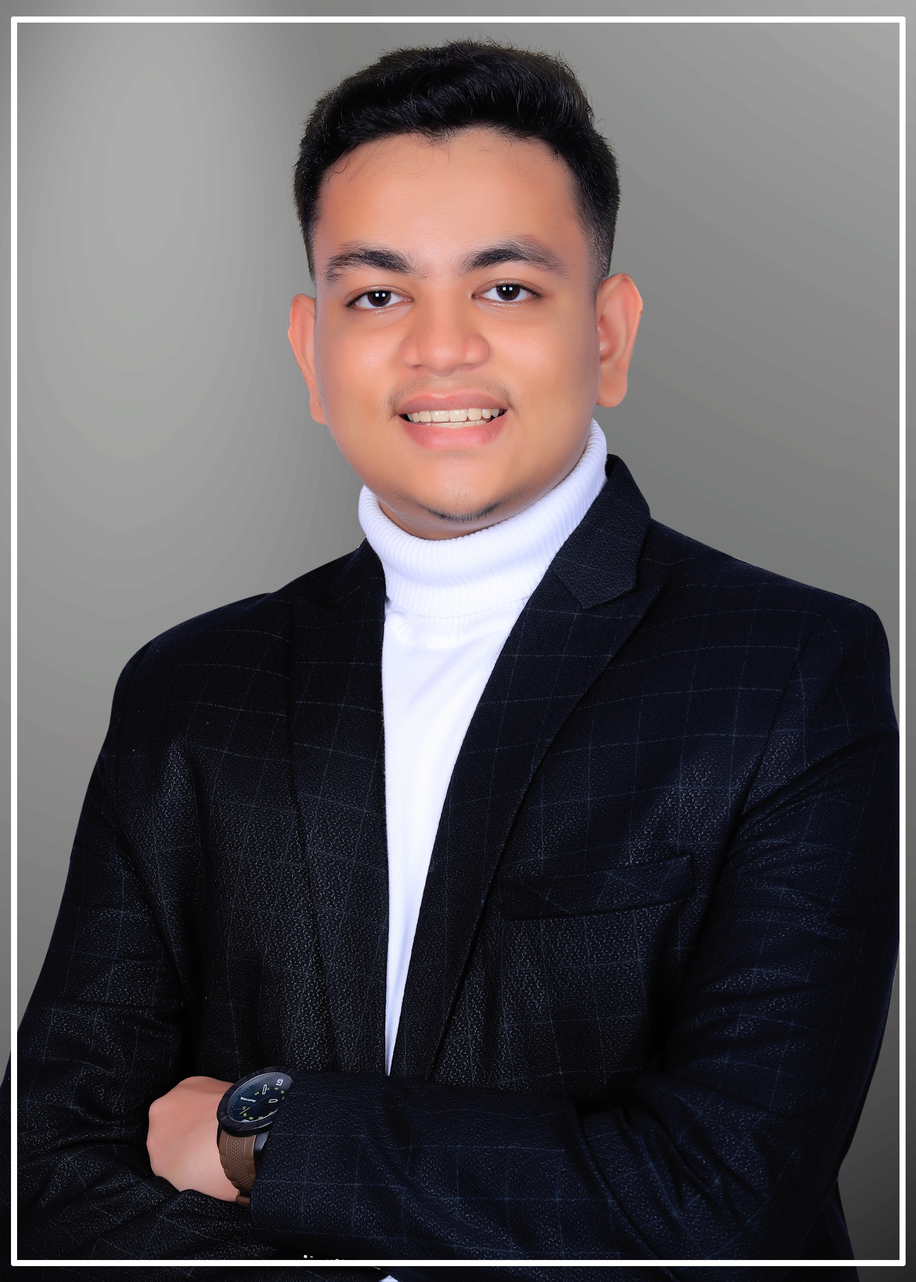
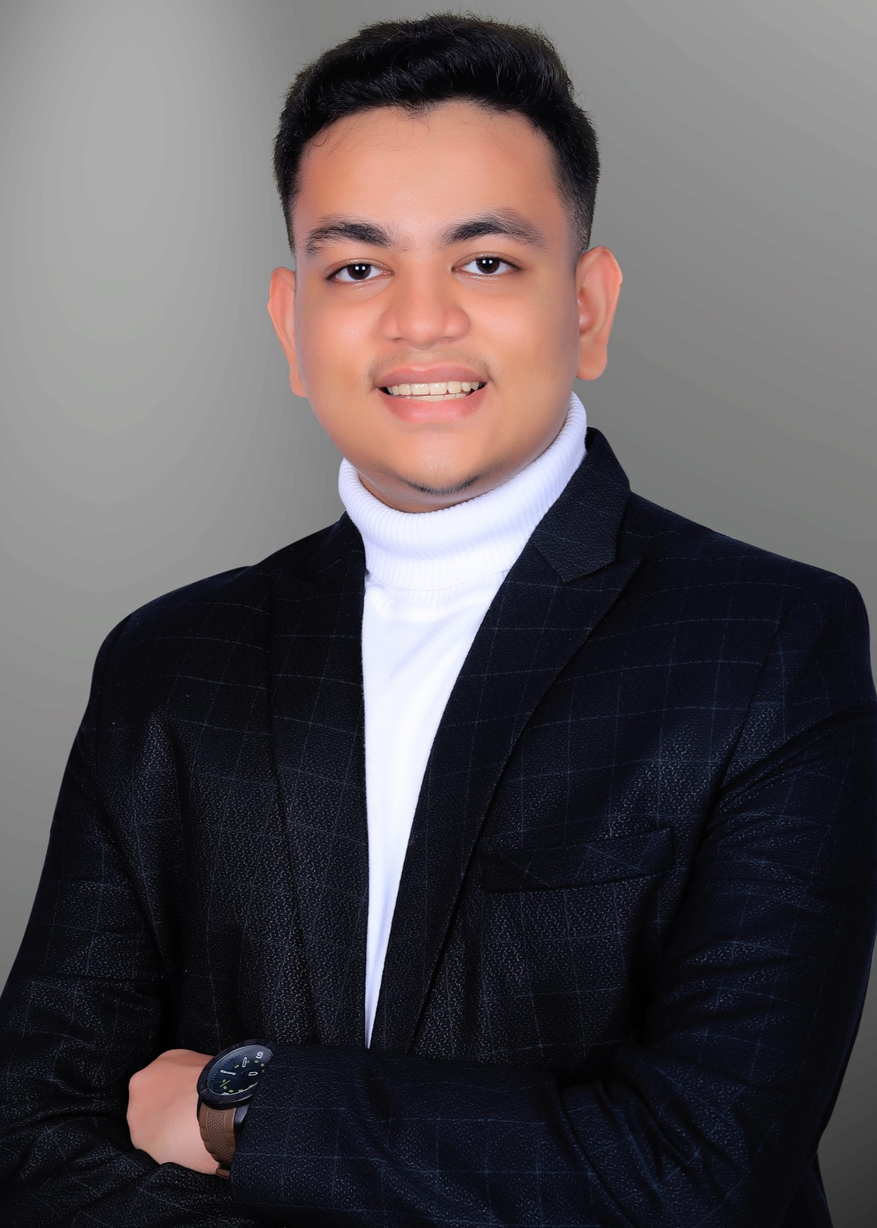
New layout for member view

diff --git a/src/css/custom.css b/src/css/custom.css
@@ -22,8 +22,6 @@
 
 
 .photo {
-  width: 150px;
-  height: 150px;
   overflow: hidden;
 }
 
